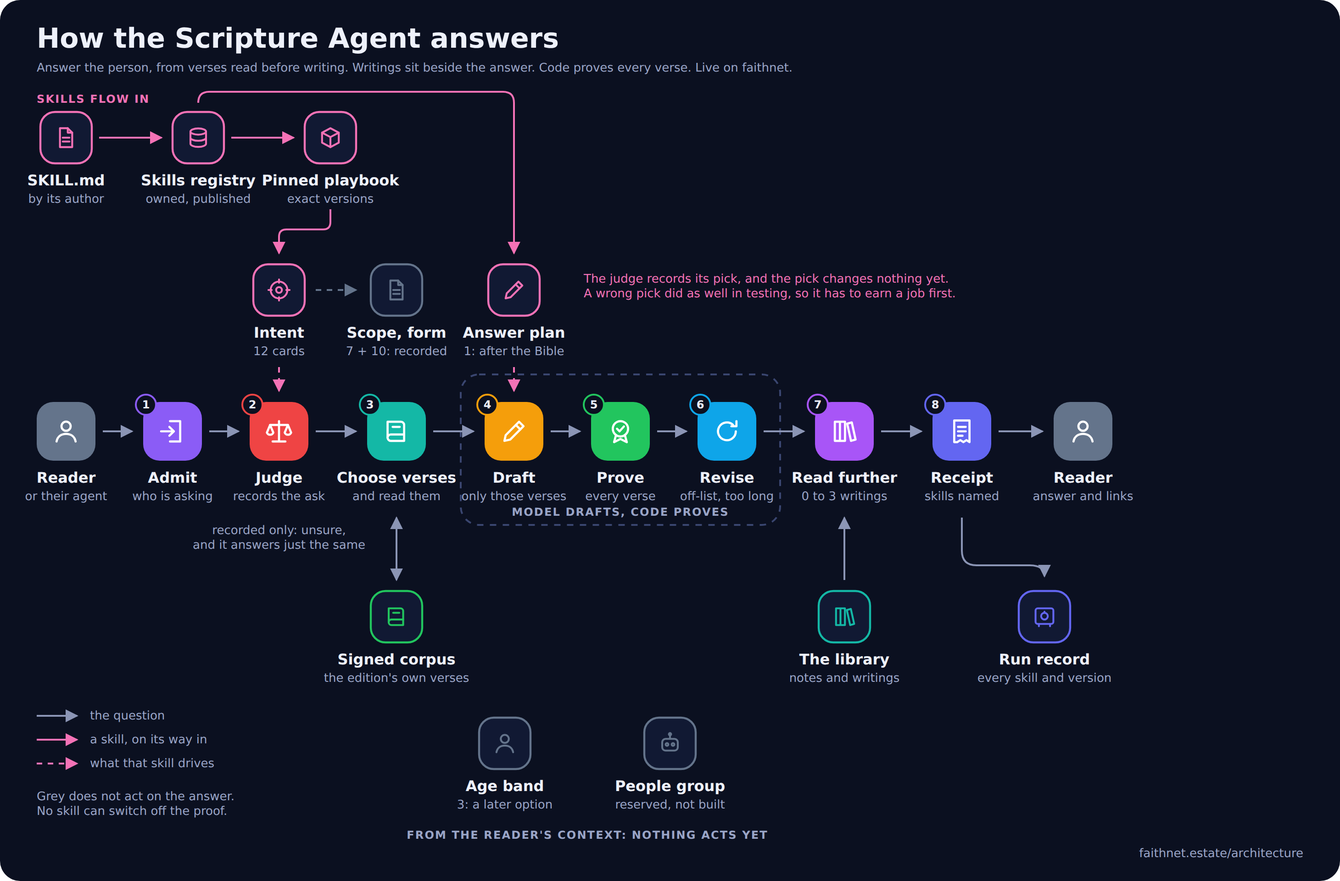
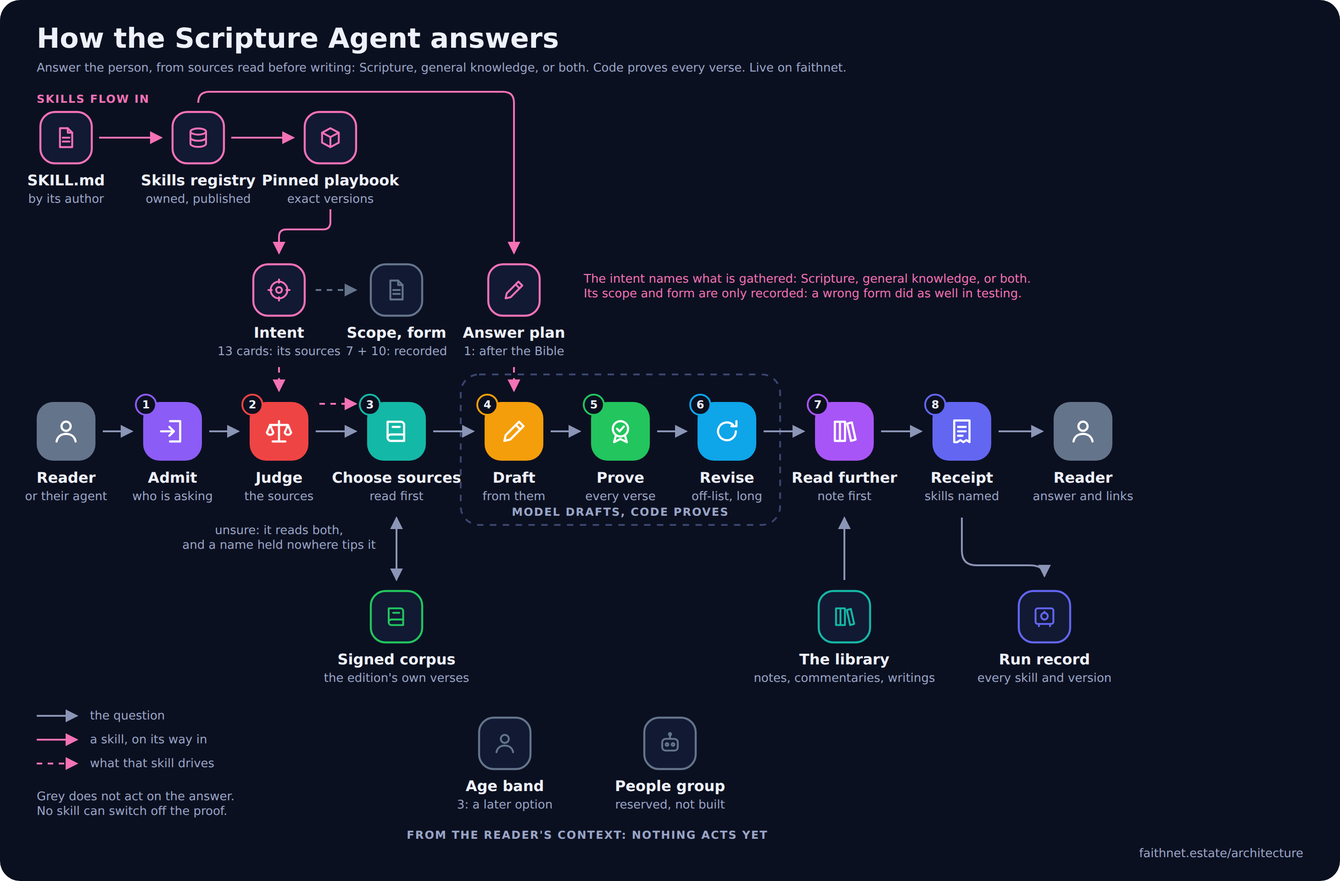
estate architecture: the intent names the sources, a named verse reads its notes, and room by the question's shape are live. The Scripture post, its picture and the testing post's fresh runs say so

diff --git a/apps/estate/src/architecture.ts b/apps/estate/src/architecture.ts
@@ -384,53 +384,58 @@ const SCRIPTURE_STEPS: Step[] = [
 
 
 const ANSWER_ALT =
-  "A flow diagram of how the Scripture Agent answers today. A question goes through admission to a judge, which records what is being asked and changes nothing. The verses that carry the answer are chosen and read from the signed corpus before anything is written. A model drafts, citing only those verses, and code proves every one. The draft goes back once if it cites another verse or runs long. Up to three writings that truly bear on the answer are chosen to sit beside it, and a receipt names the skills used. Intent cards reach the judge from the registry through a pinned playbook, and one answer plan reaches the draft. In grey: scopes and forms are recorded but do not act, age bands are a later option, and a people-group skill is reserved and not built.";
+  "A flow diagram of how the Scripture Agent answers today. A question goes through admission to a judge, which names what is gathered: Scripture, general knowledge, or both. The verses that carry the answer are chosen and read from the signed corpus before anything is written; a question that names a verse also reads the study notes and commentaries on it, and a general question reads one encyclopedia article. A model drafts from what was read, and code proves every verse. The draft goes back once if it cites another verse or runs long. Up to three writings that truly bear on the answer are chosen to sit beside it, and a receipt names the skills used. Intent cards reach the judge from the registry through a pinned playbook, and one answer plan reaches the draft. In grey: scopes and forms are recorded but do not act, age bands are a later option, and a people-group skill is reserved and not built.";
 const inherited = (id: string, at: [number, number], over: Partial<Step> = {}): Step => ({ ...SCRIPTURE_STEPS.find((x) => x.id === id)!, at, ...over });
 const ANSWER_STEPS: Step[] = [
   inherited('admit', [188, 470]),
   {
     id: 'judge', name: 'Judge', color: '#ef4444', at: [304, 470],
-    summary: 'What is the reader asking for? It is recorded, and it changes nothing yet.',
-    why: 'A definition, a question about a verse and a request for practical help look as if they want different answers. But on 300 questions a deliberately wrong skill did as well as the right one, so the pick does not shape the answer. It is kept as a record, because the record is what the next test builds on.',
+    summary: 'What is the reader asking for, and what should be gathered to answer it: Scripture, general knowledge, or both.',
+    why: 'Telling the writer how to write changed nothing: on 300 questions a deliberately wrong skill did as well as the right one. Telling the path what to gather did. Answers to general questions lost to a product that simply knew the subject, because the writer was pulled toward verses. So the intent now names its sources, and the rest of its pick is only recorded.',
     what: [
-      'One call to a small model reads the question against twelve intent cards from the playbook and gives a probability for each, and for "none". Each card names a scope and a form.',
-      'Code applies the rule and records the pick. No scope or form acts on the answer, because the playbook pins none of them to act.',
+      'One call to a small model reads the question against thirteen intent cards from the playbook and gives a probability for each, and for "none". Each card names its sources, a scope and a form.',
+      'Code applies the rule. The sources act: general knowledge alone reads no verses, and a question the judge cannot place reads both. The scope and form are recorded, because the playbook pins none of them to act.',
+      'A name that is held nowhere in the corpus or the ontology influences the plan and does not decide it: it tips an unplaced question toward general knowledge, and the writer is told what was not found, never that the Bible does not say it.',
       'A reader with a verse open still goes to the short verse companion, by a rule in code, with no judge.',
     ],
     where: [SCRIPTURE, 'Source: <code>src/harness/intent-stage.ts</code> and <code>intent-rule.ts</code>. The judge is <code>selectByJudgment</code> from <code>@agenticprimitives/orchestration</code>, the same one the agent harness uses.'],
     by: 'A small model chooses. A rule in code accepts.',
     reads: ['The question.', 'The intent cards, at their pinned versions.'],
-    leaves: ['<code>intentStage</code>: every probability, the pick, and each skill\'s version and commitment.'],
-    stops: ['A failed call or an unreadable registry is a hold. The question is still answered, because nothing depends on the pick.'],
+    leaves: ['<code>intentStage</code>: every probability, the pick, and each skill\'s version and commitment.', '<code>sources</code>: the plan, what the judge said, the names checked and where each was found.'],
+    stops: ['A failed call or an unreadable registry falls to Scripture. A hold reads both. The question is always answered.'],
   },
   {
-    id: 'verses', name: 'Choose verses', color: '#14b8a6', at: [432, 470],
-    summary: 'The passages that carry the answer, read before anything is written.',
+    id: 'verses', name: 'Choose sources', color: '#14b8a6', at: [432, 470],
+    summary: 'The passages that carry the answer, the notes on a named verse, or an article on a general subject: all read before anything is written.',
     why: 'Written from memory, answers said things about verses that the verses do not say. Choosing the verses first and handing the writer their real text is the largest part of why answers with an error fell from 146 to 58 of 300. Choosing them is also a large part of what makes an answer good.',
     what: [
       'A small model chooses two to four passages a careful teacher would open to. It sees what search found, and may add others. Sharing a word with the question does not qualify a verse.',
       'Code resolves each reference and fetches its text from the signed corpus, in the reader\'s edition.',
       'A reference that does not resolve is dropped and recorded.',
+      'A question that names a verse also reads the study notes on it: up to two study notes and two commentaries, one from each publisher. Code chooses them over entries that only list the verse, and holds back a placement it is not sure of. Each is a reading, never Scripture.',
+      'A general question reads one encyclopedia article, bound to the subject by search and a model\'s match that code checks. That is a heuristic match, recorded at 0.8 and never as certain. An article found for the wrong thing is refused.',
     ],
-    where: [SCRIPTURE, 'Source: <code>src/harness/answer-links.ts</code> (<code>chooseVerses</code>).', LIBRARY],
-    by: 'A small model chooses. Code fetches and verifies.',
-    reads: ['The question.', 'The passages found by meaning.', 'The signed corpus.'],
-    leaves: ['<code>chosenVerses</code>: each passage and why it was chosen, and any that did not resolve.'],
-    stops: ['If this step fails, the writer is not restricted, and the proof still checks every reference.', 'At most ten verses are read.'],
+    where: [SCRIPTURE, 'Source: <code>src/harness/answer-links.ts</code> (<code>chooseVerses</code>), <code>verse-notes.ts</code> and <code>general-source.ts</code>.', LIBRARY],
+    by: 'A small model chooses verses and matches an article. Code fetches, verifies and chooses the notes.',
+    reads: ['The question.', 'The passages found by meaning.', 'The signed corpus.', 'The notes filed at a named verse.', 'One encyclopedia search, for a general subject.'],
+    leaves: ['<code>chosenVerses</code>: each passage and why it was chosen, and any that did not resolve.', '<code>verseNotes</code>: each note read, with its licence, attribution and placement confidence, and each held back with the reason.', '<code>sources.general</code>: the article, its licence, and the confidence of the match.'],
+    stops: ['If a step fails, the writer is not restricted, and the proof still checks every reference.', 'At most ten verses are read, and notes at the first two verses named.'],
   },
   {
     id: 'draft', name: 'Draft', color: '#f59e0b', at: [560, 470],
-    summary: 'Answer the person, from those verses.',
+    summary: 'Answer the person, from what was read.',
     why: 'Our answers used to read as reports on whatever search returned. A plain question got a study of the sources, and one question was reinterpreted because of what was found. The writer now answers what was asked, as a knowledgeable teacher would to a friend.',
     what: [
       'The writer takes the question in its plain meaning, gives the answer in the first sentence, then the few things most worth knowing. It takes a clear position, and uses what is well established in Scripture and Christian teaching.',
-      'It may cite only the verses chosen, and must not say a verse says more than its words do.',
+      'It may cite only the verses chosen, and must not say a verse says more than its words do. Under general knowledge alone it cites no verse and does not bring in the Bible unasked.',
+      'The notes on a named verse are for its understanding, said in its own words. A commentary is named to it as one tradition\'s reading, not to be given as the verse\'s meaning. An article\'s verdict on a disputed subject is not given as its own.',
       'It does not mention sources or what it was given, and adds no study exercise and no closing summary.',
+      'Usually 100 to 160 words. A comparison, a change over time, a list or two questions asked as one may run to about 250, which code decides from the question\'s shape, because twice, left to the writer, nearly every answer grew.',
       'The one answer plan, for a person, body or event after the Bible, adds its instructions when the judge that runs while the agent gathers chooses it.',
     ],
     where: [SCRIPTURE, 'Source: <code>src/harness/draft-prove.ts</code> (<code>ANSWER_FIRST</code>).'],
     by: 'One model call.',
-    reads: ['The question.', 'The chosen verses, in the edition\'s own words.', 'The answer plan, if one was chosen.'],
+    reads: ['The question.', 'The chosen verses, in the edition\'s own words.', 'The notes on a named verse, or the article on a general subject.', 'The answer plan, if one was chosen.'],
     leaves: ['The draft.'],
     stops: ['A draft cut off by the output limit fails the run and is not shown.'],
   },
@@ -440,7 +445,7 @@ const ANSWER_STEPS: Step[] = [
     summary: 'Back to the writer when code finds a problem.',
     why: 'The writer does not reliably follow what it is only told. It ran well past the length it was given. Code can see these failures, so code sends them back.',
     what: [
-      'The draft goes back once if the proof found a problem, if it cites a verse that was not chosen, if it talks about what it was supplied, or if it runs over 190 words.',
+      'The draft goes back once if the proof found a problem, if it cites a verse that was not chosen, if it talks about what it was supplied, if it runs over 190 words (300 where the question\'s shape earned room), if it repeats a study note word for word, or if a general-knowledge answer cites a verse or brings in the Bible unasked.',
       'If a quoted word is still not in the verse it cites, one more call deals with that alone.',
       'A revision is proved again, and kept only if it is no worse.',
     ],
@@ -452,11 +457,12 @@ const ANSWER_STEPS: Step[] = [
   },
   {
     id: 'further', name: 'Read further', color: '#a855f7', at: [920, 470],
-    summary: 'Up to three writings that truly bear on the answer, or none.',
+    summary: 'Up to three writings that truly bear on the answer, or none. For a named verse, its study note comes first.',
     why: 'The library is what this agent has that others do not, but it was crowding the answer. Moved beside the answer, a writing can be chosen against what the answer actually says, and given a reason.',
     what: [
       'After the answer is proved, a small model looks at the writings found and chooses at most three that are truly about what was asked, each with one line on what the reader will find there.',
       'None is an acceptable result: an unrelated link is worse than no link. On 300 questions, 272 answers had at least one, and 39 of 638 chosen writings were graded off-topic.',
+      'For a question that names a verse, the study note on that verse is placed first by code. Before this, the agent asked for four notes and got them in the order of the publishers\' names, so the note on the verse reached readers for 2 verse questions in 20. Now it does for 95 in 100.',
       'Neither the writer nor the proof depends on them.',
     ],
     where: [SCRIPTURE, 'Source: <code>src/harness/answer-links.ts</code> (<code>chooseWritings</code>).', LIBRARY],
@@ -474,11 +480,11 @@ const ANSWER_STEPS: Step[] = [
 
 const SCRIPTURE_BODY = `
 <h2>Where this stands</h2>
-<p>As of 6 November 2026, the picture and steps above are what answers readers on faithnet. A sample of live questions after the switch took 11 to 15 seconds and ran 140 to 171 words, with every citation verified.</p>
+<p>As of the evening of 6 November 2026, the picture and steps above are what answers readers on faithnet. Three changes went live that day on top of the answer-first design: the intent names what is gathered, a question that names a verse reads the notes on it, and code decides which questions may run longer. Live questions after the switch took 9 to 19 seconds, and every citation verified.</p>
 <p>Three limits remain:</p>
 <ul>
 <li>Readers who ask through their own person agent get the answer and its citations, and the Read further list does not yet pass through that hop.</li>
-<li>Answers on subjects outside the Bible are still the weakest. See <a href="#next">What comes next</a>.</li>
+<li>A general-knowledge answer rests on one encyclopedia article. On a disputed subject the writer is told not to adopt the article's verdict, and it still tends to open with the article's framing. Nothing in such an answer is checked against a signed source, and the page says so.</li>
 <li>The agent reached this design by testing on questions from one publisher's library, not on what readers here ask. <a href="/architecture/testing-answers">How we test</a> says what that can and cannot show.</li>
 </ul>
 
@@ -501,14 +507,14 @@ const SCRIPTURE_BODY = `
 </ul>
 
 <h2>The categories of skills</h2>
-<p>As of 6 November 2026, two kinds of skill shape live answers: the method for a verse, and one answer plan. Intents, scopes and forms are in the registry and pinned, and are only recorded. We removed three categories after testing: passage kinds, reader roles and standpoints.</p>
+<p>As of 6 November 2026, three kinds of skill shape live answers: the method for a verse, one answer plan, and the intent, which names what is gathered. Scopes and forms are in the registry and pinned, and are only recorded. We removed three categories after testing: passage kinds, reader roles and standpoints.</p>
 <div class="table-wrap"><table class="skills-table">
 <thead><tr><th>Category</th><th>What it decides</th><th>Chosen by</th><th>How many</th><th>State</th></tr></thead>
 <tbody>
 <tr><td><b>Ask skill</b></td><td>The method for one kind of question</td><td>A rule: a verse is open</td><td>9; only the verse skill drives live answers</td><td>Acting</td></tr>
 <tr><td><b>Answer plan</b></td><td>Which writings may be used, and how to answer</td><td>A judge, while the agent gathers</td><td>1: a person, body or event after the Bible</td><td>Acting</td></tr>
-<tr><td><b>Intent</b></td><td>What the reader is asking for. It names one scope and one form</td><td>The judge</td><td>12</td><td>Recorded. Places questions well, and changes nothing</td></tr>
-<tr><td><b>Scope</b></td><td>What the question is about</td><td>The intent</td><td>7: a verse or passage, a book, a subject in the Bible, a word, a topic, outside the Bible, this agent</td><td>Recorded. Outside the Bible is the next test</td></tr>
+<tr><td><b>Intent</b></td><td>What the reader is asking for, and its sources: Scripture, general knowledge or both. It names one scope and one form</td><td>The judge</td><td>13</td><td>Acting, on the sources only. On the questions it changes, 15 better and 2 worse over 200 fresh questions</td></tr>
+<tr><td><b>Scope</b></td><td>What the question is about</td><td>The intent</td><td>7: a verse or passage, a book, a subject in the Bible, a word, a topic, outside the Bible, this agent</td><td>Recorded</td></tr>
 <tr><td><b>Form</b></td><td>The shape of the answer</td><td>The intent</td><td>10: exposition, survey, profile, definition, teaching, counsel, reasoned case, verse list, describe and weigh, agent record</td><td>Recorded. No gain over a wrong form</td></tr>
 <tr><td><b>Age band</b></td><td>How the answer is told to a child or a teenager. It changes the telling, never the teaching</td><td>A rule, from what the reader's context states</td><td>3</td><td>Off. A later option, once a profile holds an age band</td></tr>
 <tr><td><b>People group</b></td><td>The people the reader belongs to or serves</td><td>A rule, from a stable id and never a bare name</td><td>None</td><td>Reserved, not built</td></tr>
@@ -530,17 +536,27 @@ const SCRIPTURE_BODY = `
 <tr><td>Same design, with the skill pick acting</td><td>189</td><td>64 of 300 (21%)</td><td>32</td><td>6</td><td>49%</td><td>9%</td></tr>
 </tbody></table></div>
 <p><b>What worked.</b> The design, not any one skill: take the question in its plain meaning, answer first, choose the verses before writing and hold the writer to them, and keep writings beside the answer. 94% of the writings chosen to read further were graded central or supporting. The accuracy check named 19 of 26 planted errors, so the true counts are higher for every version. Compare the versions, and do not read the counts as totals.</p>
-<p><b>Why the skill pick is off.</b> With it acting, answers were 13 better, 10 worse and 277 tied against no pick, and errors were no lower. Keeping it off means a simpler path with nothing lost.</p>
+<p><b>Why the form pick is off.</b> With it acting, answers were 13 better, 10 worse and 277 tied against no pick, and errors were no lower. Keeping it off means a simpler path with nothing lost.</p>
+
+<h2>What went live on 6 November</h2>
+<p>Each of these was tested on questions nobody had looked at, the live design against the change, blind and in both orders. The full figures are in <a href="/architecture/testing-answers">How we test</a>.</p>
+<ul>
+<li><b>The intent names the sources.</b> The largest remaining loss had been on subjects outside the Bible, where holding the writer to verses pulled the answer toward Scripture. Across six runs of 100 questions, the design won 32 and lost 13 overall, and on the questions it changes, about four in ten, it won 15 and lost 2 in the two runs that match what shipped. Answers with an error stayed level within the noise of the check. The second of those runs missed the error limit by one answer, and the decision to ship was the owner's.</li>
+<li><b>A named verse reads its notes.</b> On 100 fresh verse questions the answers tied 100 to 0, and answers with an error fell from 14 to 11. The gain is in the links: the study note on the verse now reaches Read further in 95 answers in 100, against 13 before. The text of the answers changed little, because the writer already handled verse questions well.</li>
+<li><b>Room by the question's shape.</b> Told it could write more "when the question needs it", the writer lengthened 93 answers in 100 and lost ground. With no guide at all it did worse still. So code decides: a comparison, a change over time, a list or two questions as one may run to about 250 words. About four questions in 100 qualify.</li>
+</ul>
 
 <h2 id="next">What comes next</h2>
-<p>The largest remaining loss is on subjects outside the Bible. Holding the writer to chosen verses pulls such answers toward Scripture when the reader asked what something is. Against one product, those questions came out 4 ours, 8 tied and 11 theirs.</p>
-<p>So the judge gets a job that changes the plan: when it records a question as outside the Bible or general knowledge, the writer answers from what is known first, and is not held to chosen verses. Code still proves any verse it cites. That change is not live. It goes live only if it wins in testing.</p>
+<p>Scoring the whole product. The comparison above judges the answer's text. It leaves out the links, which is where this agent is furthest ahead, and it drew only 10 verse questions in 300 where a fifth of the library's questions name a verse. The next test scores the answer and its links together, by kind of question.</p>
+<p>Research questions. Where the agent holds the material, such as how early writers read a passage and where they disagree, it already wins most comparisons. The next step there is a set of exercises built from the graph, where code can check whether the needed sources were opened, so the gathering can be improved without a judge.</p>
 
 <h2>What we tested that did not work</h2>
 <ul>
 <li><b>Letting the judge choose among form skills.</b> The judge's picks look sensible, but on 300 questions a deliberately wrong skill did about as well: 14 better, 8 worse, 278 tied. The first version of this test was also flawed: the general rules were placed after the skill and overrode it. Fixing that, and rewriting the skills to differ, did not change the result.</li>
 <li><b>Rules for each kind of passage</b> (wisdom, parable, narrative, vision, song, law). On 40 fresh questions about a text, 36 tied with no rule and 39 tied with a wrong rule, and errors did not fall. Removed.</li>
 <li><b>Gathering differently by scope.</b> Only questions from outside the Bible showed a modest gain. A first gain on people and places in the Bible (11 better, 2 worse) was level on the rerun (8 and 8).</li>
+<li><b>Leaving the length to the writer.</b> "More when the question needs it" lengthened 93 answers in 100; no guide at all took the median from 192 to 304 words and raised verse errors from 12 to 21. Both lost more than they won on Scripture questions.</li>
+<li><b>A strict rule for names.</b> A name held nowhere in the corpus was first made to decide the plan. It denied things the agent did hold under another spelling or a title, so it now only influences the plan.</li>
 <li><b>More data by canonical id.</b> Answers about a person bound to a canonical id were no better than others (4 better, 5 worse).</li>
 <li><b>Skills for each faith journey.</b> Together, seven role skills came out 2 better and 13 worse than the one line of guidance they would replace. They mostly added length. Removed.</li>
 <li><b>Skills for a stated tradition.</b> One beat the previous path once and lost six times, because the writer dropped the comparison with other traditions. The existing lookup of confessional standards already does the useful part. Removed.</li>
@@ -2044,7 +2060,7 @@ const TEST_STEPS: Step[] = [
 
 const TEST_BODY = `
 <h2>Where this stands</h2>
-<p>As of 6 November 2026, a 40-question pilot and a 300-question run have finished, and the design they favoured is live. The run cost $54.40. It was not frozen: it read the live library, so a rerun would not match exactly.</p>
+<p>As of 6 November 2026, a 40-question pilot and a 300-question run have finished, and the design they favoured is live. The run cost $54.40. It was not frozen: it read the live library, so a rerun would not match exactly. Seven further runs of 100 fresh questions each, about $19 in all, tested the three changes that went live that evening; they are under <a href="#fresh">Fresh runs</a>.</p>
 
 <h2>Our approach</h2>
 <ul>
@@ -2068,6 +2084,21 @@ const TEST_BODY = `
 <tr><td>New design vs Product 1</td><td>58</td><td>207</td><td>35</td></tr>
 </tbody></table></div>
 <p>Most wins are marginal. Counting clear wins only, the new design is 14 to 16 against Product 2, and 12 to 16 against Product 1. So it has closed most of the gap to Product 2 and has not passed it. Against Product 1 it moved from behind to ahead, on marginal wins.</p>
+
+<h2 id="fresh">Fresh runs</h2>
+<p>Each run draws 100 questions nobody has looked at, answers them with the live design and with the change, and judges the pairs blind in both orders, with a separate accuracy check against the article. A rule written before the run says what passes. The seven runs cost about $2.70 each.</p>
+<div class="table-wrap"><table class="skills-table">
+<thead><tr><th>Change tested</th><th>Better</th><th>Tie</th><th>Worse</th><th>Answers with an error, live to change</th><th>Outcome</th></tr></thead>
+<tbody>
+<tr><td>The intent names the sources, first version</td><td>7</td><td>92</td><td>1</td><td>21 to 9</td><td>Below the bar on net wins</td></tr>
+<tr><td>Same, with fixes from the first run</td><td>10</td><td>87</td><td>3</td><td>22 to 20</td><td>Below the bar</td></tr>
+<tr><td>Same, with the name rule softened</td><td>11</td><td>87</td><td>2</td><td>12 to 12</td><td>One question short of the bar</td></tr>
+<tr><td>Plus no guide on length</td><td>9</td><td>85</td><td>6</td><td>21 to 29</td><td>Worse: rejected</td></tr>
+<tr><td>Plus "more when the question needs it"</td><td>8</td><td>86</td><td>6</td><td>18 to 22</td><td>Worse: rejected</td></tr>
+<tr><td>Plus room decided by the question's shape</td><td>6</td><td>92</td><td>2</td><td>11 to 15</td><td>One answer over the error limit; shipped by the owner</td></tr>
+<tr><td>Plus notes on a named verse, on 100 verse questions</td><td>0</td><td>100</td><td>0</td><td>14 to 11</td><td>No worse: shipped. The verse's note under Read further went from 13 to 95 in 100</td></tr>
+</tbody></table></div>
+<p>Two lessons. First, the runs that held length at 190 words won 28 and lost 6 across all questions; the two that loosened it won 17 and lost 12. Second, about one pair in ten is decided by chance, so a run of 100 cannot tell a gain of four questions from nothing. Three of the first runs were spent chasing differences of that size, which was a mistake in how the testing was spent. A fresh run earns its cost when it can show a large difference, or when it checks that a change makes nothing worse before it goes live.</p>
 
 <h2>Links</h2>
 <div class="table-wrap"><table class="skills-table">
@@ -2097,7 +2128,8 @@ const TEST_BODY = `
 <li><b>Freeze a run.</b> Record what retrieval returned, so that two designs see the same material and a result can be replayed. Today the library can move during a run.</li>
 <li><b>Make the error log act.</b> A confirmed error in an article should remove that point from the key, and a confirmed error of ours should become a regression test. Today the log changes nothing.</li>
 <li><b>Use the key or stop building it.</b> Score answers against its points, which says whether they covered what matters, or drop that step and its cost.</li>
-<li><b>Keep a fresh, sealed set.</b> These 300 questions have now shaped the design. The next gate needs questions nobody has looked at.</li>
+<li><b>Score the whole product.</b> The headline judges the answer's text and leaves out the links, which is where this agent is furthest ahead. Score the answer and its links together, by kind of question.</li>
+<li><b>Represent verse questions.</b> A fifth of the library's questions name a verse, and the category draw reached 10 of them in 300. The verse draw used for the last run should be part of every set.</li>
 <li><b>Sample what readers really ask.</b> Add a private sample of production questions, because one publisher's questions are not ours.</li>
 <li><b>Test the checks harder.</b> Plant about 100 errors of several kinds rather than 26, run more noise pairs, and move the confirming step to a stronger model. It currently uses a small one, and that family's small model over-flags.</li>
 <li><b>Check the articles directly.</b> Errors in articles are found only when a head-to-head judge happens to claim one. Read each article against its verses instead.</li>
@@ -2234,7 +2266,8 @@ const LOGIC_BODY = `
 <h2>Advice for the questions</h2>
 <ol>
 <li><b>Choose the evidence first and hold the writer to it.</b> This is live, and it is the largest measured gain.</li>
-<li><b>Route by what must be gathered, not by how to write.</b> Scripture, general knowledge, or both. The remaining losses are questions that needed general knowledge and were pulled toward Scripture.</li>
+<li><b>Route by what must be gathered, not by how to write.</b> Scripture, general knowledge, or both. This is now live: on the questions it changes it won 15 and lost 2 over 200 fresh questions.</li>
+<li><b>Spend on a test only when it can settle the question.</b> A run of 100 cannot resolve a gain of four. Use it to catch a change that makes answers worse, or to cover a part of the product the tests had not reached.</li>
 <li><b>Treat a standpoint as a decision.</b> A confession's own statements are data. An answer given from that standpoint can be checked against them. The standpoint texts tried so far were prose, and prose is what the model ignores or over-applies.</li>
 <li><b>Hold what can be counted.</b> The reader setting that worked had a length that code enforced.</li>
 <li><b>Do not expect a mainstream answer key to reward a position.</b> Where the agent is meant to answer differently from the common view, only a check against the chosen position can show whether it did.</li>
@@ -2286,7 +2319,7 @@ export const POSTS: Post[] = [
     title: "How we test the Scripture Agent's answers",
     date: '2026-11-06',
     description:
-      'How answers are compared blind against two other products and checked against clear, opinionated articles, why answering, accuracy and links are measured apart, the results of 300 questions, what did not work, and how the test should improve.',
+      'How answers are compared blind against two other products and checked against clear, opinionated articles, why answering, accuracy and links are measured apart, the results of 300 questions and seven fresh runs, what did not work, and how the test should improve.',
     picture: {
       svg: '/architecture/ask-testing-flow.svg', png: '/architecture/ask-testing-flow.png', alt: TEST_ALT, width: 1460, height: 930,
       caption: 'Grey arrows are the questions and answers. Pink arrows are checks on the checks. The dashed arrow happens only when needed.',
@@ -2364,10 +2397,10 @@ export const POSTS: Post[] = [
     title: 'How the Scripture Agent answers a question',
     date: '2026-11-06',
     description:
-      'The answer-first design now live for the Scripture Agent: the verses chosen before writing, code proving every one, the writings beside the answer. Also the categories of skills, what 300 questions showed, what did not work, and what comes next.',
+      'The design now live for the Scripture Agent: the intent names what is gathered, the verses, notes or article are read before writing, code proves every verse, and the writings sit beside the answer. Also the categories of skills, what the tests showed, what did not work, and what comes next.',
     picture: {
       svg: '/architecture/scripture-intent-flow.svg', png: '/architecture/scripture-intent-flow.png', alt: ANSWER_ALT, width: 1460, height: 960,
-      caption: 'Live on faithnet as of 6 November 2026. Grey arrows are the question. Pink arrows are a skill on its way in. Grey tiles do not act on the answer.',
+      caption: 'Live on faithnet as of 6 November 2026. Grey arrows are the question. Pink arrows are a skill on its way in, and the dashed pink arrow is what the intent drives: the sources. Grey tiles do not act on the answer.',
     },
     steps: ANSWER_STEPS,
     body: SCRIPTURE_BODY,
